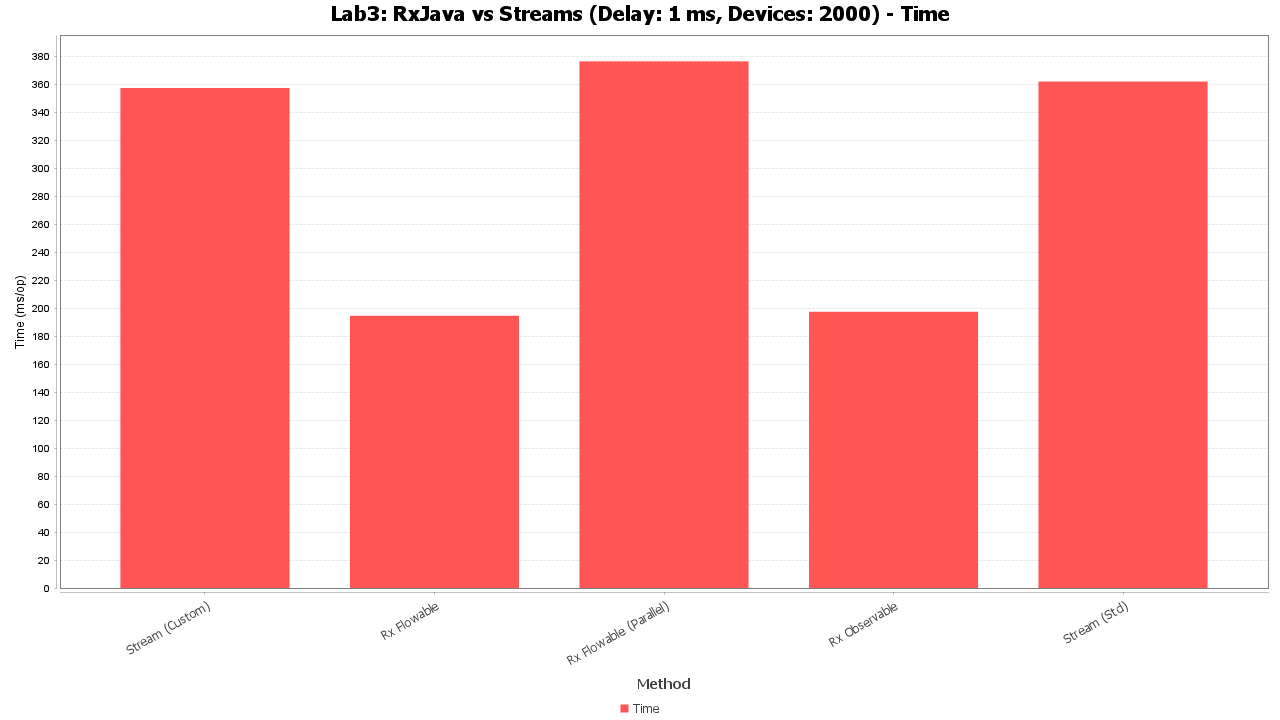
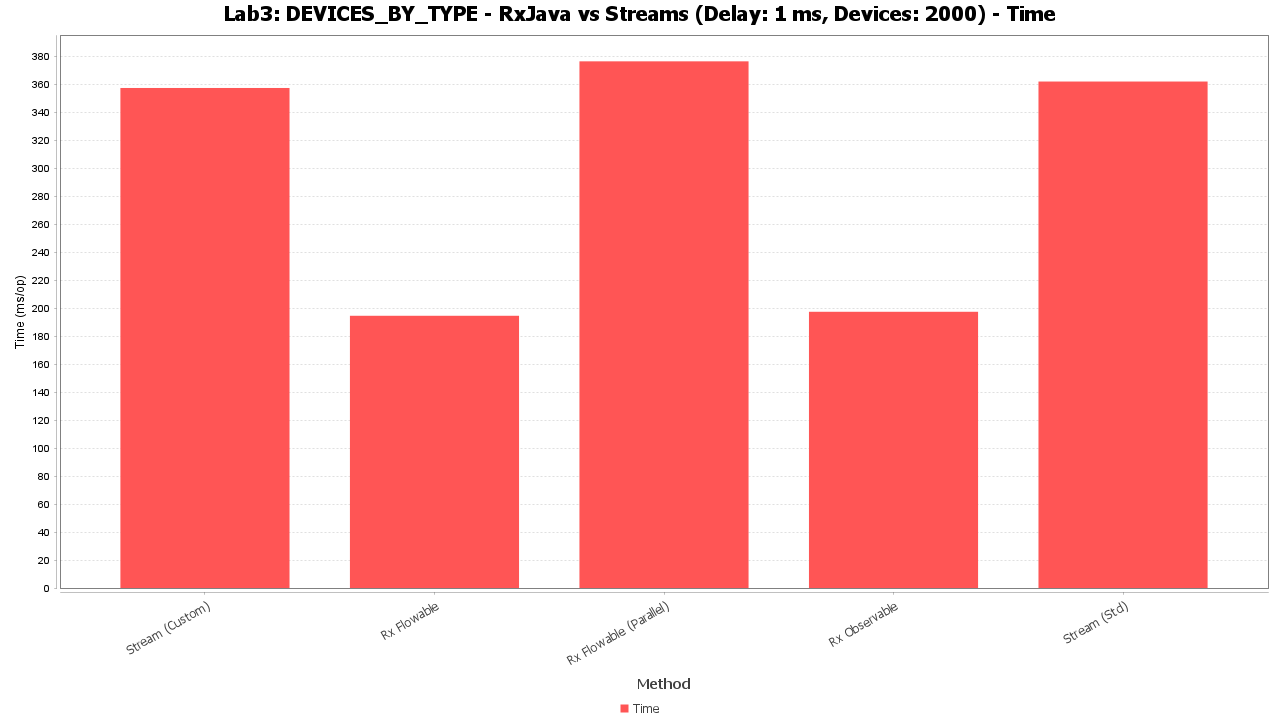
Third Commit

Changed region(s): [[0.1562, 0.0, 0.8438, 0.0306]]

diff --git a/src/main/java/com/example/reactivejava/visualization/visualizer/Lab3BenchmarkVisualizer.java b/src/main/java/com/example/reactivejava/visualization/visualizer/Lab3BenchmarkVisualizer.java
@@ -65,8 +65,8 @@ public class Lab3BenchmarkVisualizer {
                     String safeDeviceCount = deviceCount.replaceAll("[^a-zA-Z0-9_]", "");
 
                     // График времени
-                    String timeTitle = String.format("Lab3: RxJava vs Streams (Delay: %s ms, Devices: %s) - Time",
-                            delayMs, deviceCount);
+                    String timeTitle = String.format("Lab3: %s - RxJava vs Streams (Delay: %s ms, Devices: %s) - Time",
+                            statType, delayMs, deviceCount);
                     String timeFilePath = Paths.get(outputDir, "Lab3Benchmark", safeStatType, "dev_" + safeDeviceCount,
                             "delay_" + safeDelay + "ms_time.png").toString();
                     ChartGenerator.createAndSaveBarChart(timeTitle, "Method", yAxisLabel, timeDataset, true,
